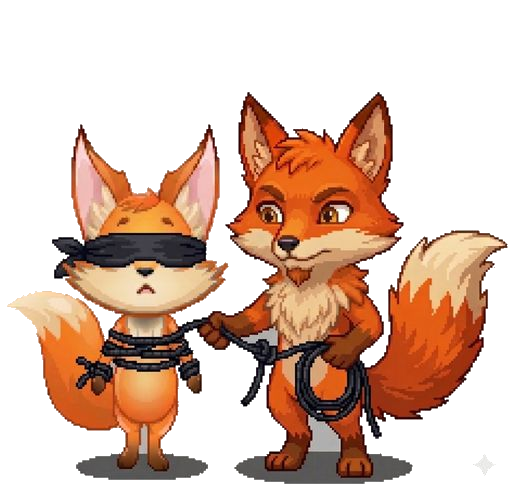
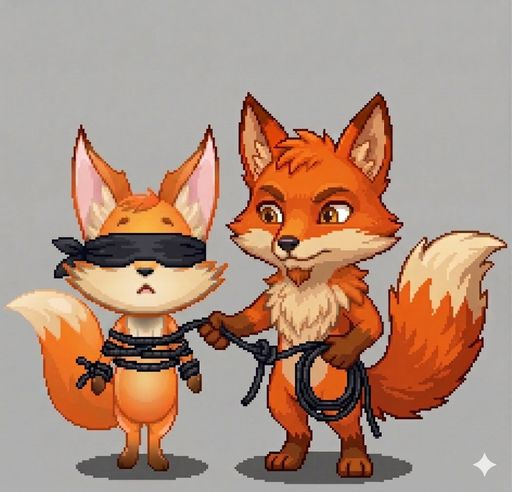
feat: Gemini 3.1 Pro fallback for game generation + fix fox image backgrounds
- Add Gemini 3.1 Pro as automatic fallback when Anthropic credits are exhausted
- Reprocess fox card PNGs with edge flood-fill background removal (fixes rembg making fox foreground transparent)
- Regenerate stewardess + ice temperature fox images via Gemini Imagen
- Add generate-fox-gemini.py and rembg-fox-images.py scripts
- Remove stale improvement notes and blabla.txt

diff --git a/app/api/generate/route.ts b/app/api/generate/route.ts
@@ -1,4 +1,5 @@
 import Anthropic from "@anthropic-ai/sdk";
+import { GoogleGenAI } from "@google/genai";
 import { NextResponse } from "next/server";
 
 const SYSTEM_PROMPT = `You are an expert designer of intimate partner games for couples. You draw from a deep toolkit of game mechanics to create experiences that are genuinely playable, surprising, and hot.
@@ -47,11 +48,12 @@ export async function POST(req: Request) {
       ? "IMPORTANT: Generate the ENTIRE game (all titles, durations, and content) strictly in GERMAN language."
       : "IMPORTANT: Generate the ENTIRE game (all titles, durations, and content) strictly in ENGLISH language.";
 
-    if (!process.env.ANTHROPIC_API_KEY) {
-      return NextResponse.json({ error: "Missing ANTHROPIC_API_KEY" }, { status: 500 });
-    }
+    const hasAnthropic = !!process.env.ANTHROPIC_API_KEY;
+    const hasGemini = !!process.env.GEMINI_API_KEY;
 
-    const anthropic = new Anthropic({ apiKey: process.env.ANTHROPIC_API_KEY });
+    if (!hasAnthropic && !hasGemini) {
+      return NextResponse.json({ error: "No AI API key configured" }, { status: 500 });
+    }
 
     let prompt = "";
 
@@ -131,14 +133,34 @@ Output ONLY a JSON object:
 }`;
     }
 
-    const response = await anthropic.messages.create({
-      model: "claude-sonnet-4-6",
-      max_tokens: 8192,
-      system: SYSTEM_PROMPT,
-      messages: [{ role: "user", content: prompt }],
-    });
+    let text = "";
 
-    const text = response.content[0].type === "text" ? response.content[0].text : "";
+    if (hasAnthropic) {
+      try {
+        const anthropic = new Anthropic({ apiKey: process.env.ANTHROPIC_API_KEY });
+        const response = await anthropic.messages.create({
+          model: "claude-sonnet-4-6",
+          max_tokens: 8192,
+          system: SYSTEM_PROMPT,
+          messages: [{ role: "user", content: prompt }],
+        });
+        text = response.content[0].type === "text" ? response.content[0].text : "";
+      } catch (err: any) {
+        const isCredits = err?.status === 529 || err?.status === 402 || err?.message?.includes("credit") || err?.message?.includes("overload");
+        if (!isCredits || !hasGemini) throw err;
+        console.warn("Anthropic unavailable, falling back to Gemini:", err.message);
+      }
+    }
+
+    if (!text && hasGemini) {
+      const gemini = new GoogleGenAI({ apiKey: process.env.GEMINI_API_KEY });
+      const response = await gemini.models.generateContent({
+        model: "gemini-3.1-pro-preview",
+        contents: [{ role: "user", parts: [{ text: `${SYSTEM_PROMPT}\n\n---\n\n${prompt}` }] }],
+        config: { maxOutputTokens: 8192 },
+      });
+      text = response.text ?? "";
+    }
 
     // Strip markdown fences, then find the JSON object
     const stripped = text.replace(/^```(?:json)?\s*/m, '').replace(/```\s*$/m, '').trim();

diff --git a/scripts/generate-fox-gemini.py b/scripts/generate-fox-gemini.py
@@ -1,0 +1,104 @@
+#!/usr/bin/env python3
+"""
+Generate specific fox scenario images via Gemini image generation API.
+Uses the chibi anthro fox style matching existing game cards.
+
+Usage:
+  python3 scripts/generate-fox-gemini.py
+"""
+
+import os
+import sys
+from pathlib import Path
+from PIL import Image
+import io
+
+SCRIPT_DIR = Path(__file__).resolve().parent
+PROJECT_ROOT = SCRIPT_DIR.parent
+OUT_DIR = PROJECT_ROOT / "public" / "fox-assets" / "Game-Related"
+
+# Load env.local so GOOGLE_APPLICATION_CREDENTIALS and project are set
+env_file = PROJECT_ROOT / ".env.local"
+if env_file.exists():
+    for line in env_file.read_text().splitlines():
+        if "=" in line and not line.startswith("#"):
+            k, _, v = line.partition("=")
+            os.environ.setdefault(k.strip(), v.strip())
+
+import vertexai
+from vertexai.preview.vision_models import ImageGenerationModel
+
+PROJECT_ID = os.environ.get("GOOGLE_CLOUD_PROJECT", "gen-lang-client-0317713513")
+vertexai.init(project=PROJECT_ID, location="us-central1")
+model = ImageGenerationModel.from_pretrained("imagen-3.0-generate-002")
+
+# Chibi anthro fox style — reverse-engineered from existing cards
+STYLE_PREFIX = (
+    "chibi anthro female fox character, orange fur, white muzzle, white chest fur, "
+    "fluffy fox tail, very large round head, small stubby body, head-to-body ratio 1:1, "
+    "stubby arms and legs, big expressive eyes, cute chibi proportions, "
+    "clean outlines, vibrant warm colors, soft cel shading, "
+    "white background, full body view, solo character, "
+    "illustrated style, 2D digital art"
+)
+
+IMAGES = [
+    {
+        "filename": "fox_costume_stewardess.jpg",
+        "prompt": (
+            f"{STYLE_PREFIX}, "
+            "wearing a flirty flight attendant costume, short navy pencil skirt, "
+            "fitted blazer with gold buttons, little hat tilted on head, "
+            "silk scarf around neck, playful confident pose, holding a serving tray, "
+            "winking expression, roleplay costume"
+        ),
+    },
+    {
+        "filename": "fox_ice_temperature.jpg",
+        "prompt": (
+            f"{STYLE_PREFIX}, "
+            "lying on a bed wearing a black satin camisole and shorts, "
+            "holding an ice cube, water drops melting on her fur, "
+            "shivering expression, eyes wide, rosy blush cheeks, "
+            "bedroom with candles in background, sensory game scene"
+        ),
+    },
+]
+
+
+def generate_image(prompt: str, filename: str):
+    out_path = OUT_DIR / filename
+    print(f"\n  Generating: {filename}")
+    print(f"  Prompt: {prompt[:120]}...")
+
+    response = model.generate_images(
+        prompt=prompt,
+        number_of_images=1,
+        aspect_ratio="1:1",
+        safety_filter_level="block_only_high",
+        person_generation="allow_adult",
+    )
+
+    if not response.images:
+        print(f"  ✗ No image returned (likely blocked by safety filter)")
+        return False
+
+    img = response.images[0]._pil_image.convert("RGB")
+    img.save(out_path, "JPEG", quality=95)
+    print(f"  ✓ Saved {out_path.name} ({img.size[0]}x{img.size[1]})")
+    return True
+
+
+def main():
+    print(f"Generating {len(IMAGES)} fox images via Gemini Imagen 3...\n")
+    for item in IMAGES:
+        ok = generate_image(item["prompt"], item["filename"])
+        if not ok:
+            print(f"  → Skipped {item['filename']}")
+
+    print("\nDone! Run the rembg script next to remove white backgrounds:")
+    print("  python3 scripts/rembg-fox-images.py")
+
+
+if __name__ == "__main__":
+    main()

diff --git a/scripts/rembg-fox-images.py b/scripts/rembg-fox-images.py
@@ -1,0 +1,96 @@
+#!/usr/bin/env python3
+"""
+Removes white backgrounds from fox images using edge-connected flood fill.
+Only removes white/near-white pixels reachable from the image border —
+so white fur, clothing, or enclosed areas inside the fox are never touched.
+Only processes images that have a .jpg original in the same folder.
+"""
+
+from pathlib import Path
+from PIL import Image
+import numpy as np
+from collections import deque
+
+GAME_RELATED = Path(__file__).parent.parent / "public" / "fox-assets" / "Game-Related"
+
+# How close to white a pixel must be to be considered background (0-255 per channel)
+WHITE_THRESHOLD = 15
+
+
+def flood_fill_alpha(img: Image.Image, threshold: int) -> Image.Image:
+    """
+    Converts white pixels connected to the image border to transparent.
+    Interior white areas (fur, clothing) are left fully opaque.
+    """
+    rgb = img.convert("RGB")
+    arr = np.array(rgb, dtype=np.uint8)
+    h, w = arr.shape[:2]
+
+    # Boolean mask: True = near-white pixel
+    near_white = (
+        (arr[:, :, 0] >= 255 - threshold) &
+        (arr[:, :, 1] >= 255 - threshold) &
+        (arr[:, :, 2] >= 255 - threshold)
+    )
+
+    # BFS flood fill from all border pixels that are near-white
+    visited = np.zeros((h, w), dtype=bool)
+    queue = deque()
+
+    for x in range(w):
+        if near_white[0, x] and not visited[0, x]:
+            visited[0, x] = True
+            queue.append((0, x))
+        if near_white[h - 1, x] and not visited[h - 1, x]:
+            visited[h - 1, x] = True
+            queue.append((h - 1, x))
+    for y in range(h):
+        if near_white[y, 0] and not visited[y, 0]:
+            visited[y, 0] = True
+            queue.append((y, 0))
+        if near_white[y, w - 1] and not visited[y, w - 1]:
+            visited[y, w - 1] = True
+            queue.append((y, w - 1))
+
+    while queue:
+        y, x = queue.popleft()
+        for dy, dx in ((-1, 0), (1, 0), (0, -1), (0, 1)):
+            ny, nx = y + dy, x + dx
+            if 0 <= ny < h and 0 <= nx < w and not visited[ny, nx] and near_white[ny, nx]:
+                visited[ny, nx] = True
+                queue.append((ny, nx))
+
+    # Build RGBA: visited pixels become transparent
+    rgba = np.array(rgb.convert("RGBA"), dtype=np.uint8)
+    rgba[visited, 3] = 0
+
+    return Image.fromarray(rgba, "RGBA")
+
+
+def process():
+    jpg_files = list(GAME_RELATED.glob("*.jpg")) + list(GAME_RELATED.glob("*.JPG"))
+
+    if not jpg_files:
+        print("No .jpg originals found.")
+        return
+
+    print(f"Found {len(jpg_files)} .jpg originals to process (edge flood-fill, threshold={WHITE_THRESHOLD}):\n")
+
+    for jpg_path in sorted(jpg_files):
+        png_path = GAME_RELATED / (jpg_path.stem + ".png")
+        print(f"  Processing: {jpg_path.name} → {png_path.name}")
+
+        try:
+            img = Image.open(jpg_path)
+            result = flood_fill_alpha(img, WHITE_THRESHOLD)
+            result.save(png_path, "PNG", optimize=True)
+            print(f"    ✓ Saved {png_path.name} ({result.size[0]}x{result.size[1]})")
+
+        except Exception as e:
+            print(f"    ✗ Error: {e}")
+
+    print("\nDone!")
+
+
+if __name__ == "__main__":
+    process()
